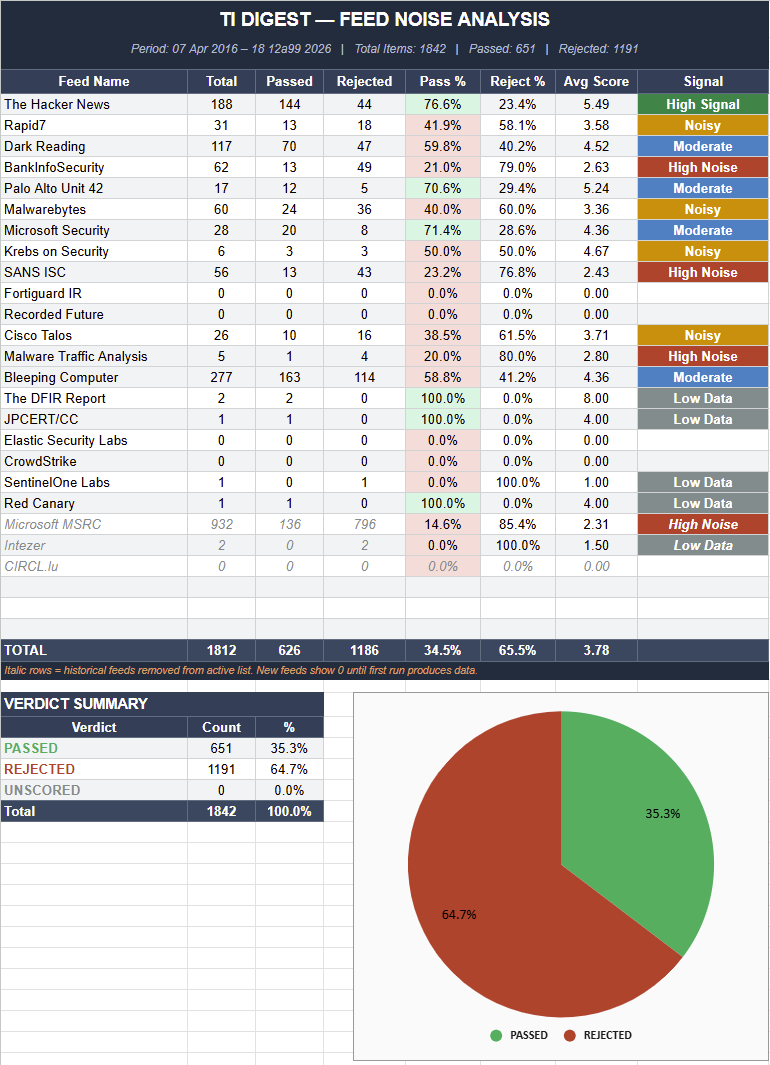
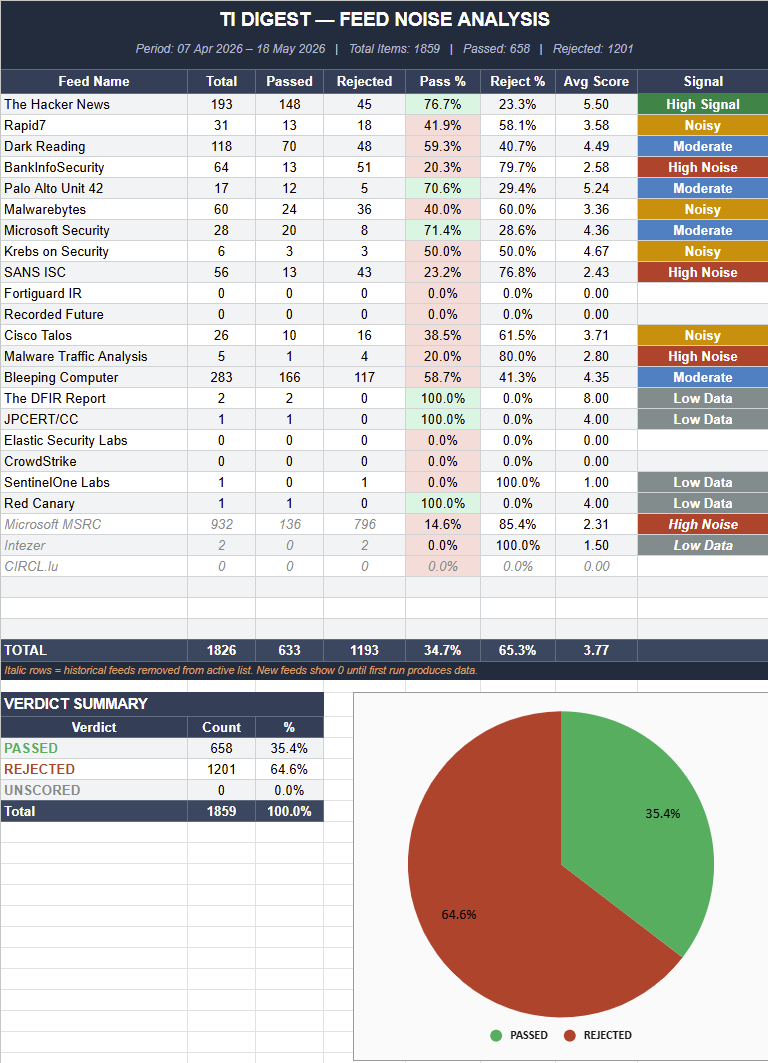
Update README with sample output screenshots and other information

diff --git a/README.md b/README.md
@@ -1,12 +1,125 @@
 # Threat Intel Digest
 
-An automated, AI-powered threat intelligence pipeline that runs twice daily on a self-hosted n8n instance. It ingests 21 security RSS feeds, triages every item with Claude (Anthropic), and delivers a scored, summarised digest to Discord and Gmail — filtered to what is actually relevant for your environment.
+A self-hosted threat intelligence pipeline that ingests 20+ security RSS feeds twice daily, runs every item through a Claude AI triage engine calibrated to your organisation's stack and region, and delivers a focused digest of only what is actually relevant - so you get the threats that matter, not an overwhelming wall of raw feed noise.
+
+Built on n8n (self-hosted, Docker), AWS Lightsail, and the Anthropic Claude API. Running costs under $12/month.
+
+---
+
+## What Makes This Different
+
+Most open threat intel pipelines stop at ingestion - a handful of RSS feeds passed into a summary prompt and pushed to a channel. This one is built to actually be useful day-to-day:
+
+- **20+ feeds** - coverage spans threat intel, DFIR, vendor research, ICS/OT, and national CERTs. High-signal, low-volume sources like The DFIR Report and Malware Traffic Analysis sit alongside high-volume feeds like Bleeping Computer and The Hacker News.
+- **Relevance filtering, not just summarisation** - every item is scored against your organisation, analyst stack, and monitored regions before a summary is written. Noise that doesn't apply to you never reaches your inbox.
+- **Two-stage design keeps costs low** - triage runs on titles and snippets only; the summarise call only fires on items that pass the threshold. You get broad coverage without paying to summarise everything.
+- **Fallback fetch for bot-blocked feeds** - feeds that reject default crawlers (BankInfoSecurity, Fortiguard) are retried with a browser User-Agent so they don't silently drop out.
+- **Built for calibration, not just set-and-forget** - the audit log records every verdict (`PASSED` / `REJECTED` / `UNSCORED`) with the score and reason. After two weeks you can see exactly where the threshold is too tight or too loose and adjust the prompt accordingly.
+- **Everything here is based on real data** - the scoring rubric, auto-elevation rules, and threshold have been tuned against actual pipeline runs. The sample outputs are real digest executions, not mock data.
+
+---
+
+## Features
+
+- **Dual-stage Claude pipeline** - triage scores every item first (cost-efficient); summarisation runs only on items that pass the threshold, keeping token usage low
+- **21 RSS feeds** across threat intel, DFIR, vendor research, ICS/OT, and national CERTs
+- **Relevance scoring (0-10)** - configurable for your stack and region
+- **Auto-elevation and auto-downgrade rules** in the triage prompt to catch edge cases (CISA KEV additions, nation-state campaigns against CNI, infostealer IOC drops, PhaaS infrastructure)
+- **Two-layer fallback fetch** - n8n RSS node first, HTTP fallback with browser `User-Agent` second (handles bot-blocked feeds like BankInfoSecurity and Fortiguard)
+- **Cross-execution deduplication** via n8n SQLite - items seen in previous runs are suppressed
+- **12-hour pubDate filter** per run, with pass-through for undated items to avoid silent feed drops
+- **Audit log** (Google Sheets) recording every item: `PASSED`, `REJECTED`, or `UNSCORED` - used for triage threshold calibration
+- **Error notification branch** - failed feeds alert to both Discord and Gmail with feed name, URL, HTTP status, and error detail
+- **Discord chunking** - output split at item boundaries, max 1,950 chars per message, 2s delay between webhook calls to prevent 429s and preserve order
+
+---
+
+## Estimated Running Cost
+
+| Component | Cost |
+|---|---|
+| Claude API (Haiku) | under $5/month at twice-daily cadence with 21 feeds |
+| AWS Lightsail | $7/month (1GB RAM, 2 vCPUs) |
+
+> **Note:** The Claude API cost above reflects this specific setup. Your actual cost will vary depending on how many feeds you configure and how much content passes the AI filtering stage — more feeds or a lower triage threshold means more items reaching the summarise call, which increases token usage.
+
+---
+
+## Sample Output
+
+**Email Digest**
+![Email Digest](samples/email_digest.png)
+
+**Audit Log - Feed Noise Analysis**
+![Feed Noise Analysis](samples/gsheet_feed_noise_analysis_chart.png)
+
+**Audit Log - Triage Data**
+![Triage Audit](samples/gsheet_triage_audit.png)
+
+For full output samples including error notifications, see the [samples/](./samples/) folder.
+
+---
+
+## Tech Stack
+
+| Component | Technology |
+|---|---|
+| Orchestration | [n8n](https://n8n.io/) (self-hosted, Docker) |
+| Hosting | AWS Lightsail - Ubuntu 24.04 LTS |
+| AI / Triage | Anthropic Claude API (`claude-haiku-4-5-20251001`) |
+| Notifications | Discord Webhook, Gmail (OAuth2) |
+| Audit Log | Google Sheets (OAuth2) |
+| Language | JavaScript (n8n Code nodes) |
+| Deduplication | n8n SQLite (built-in, cross-execution) |
+
+---
+
+## Prerequisites
+
+- AWS Lightsail instance (or any Linux VPS) - running on Ubuntu 24.04 LTS, 1GB RAM
+- n8n (self-hosted) - running on v2.14.2
+- Anthropic API key ([console.anthropic.com](https://console.anthropic.com)) - **set a monthly spend limit in Console > Settings > Limits before activating** to cap exposure if the key is ever compromised
+- Discord server with a webhook URL
+- Gmail account with OAuth2 configured in Google Cloud Console
+- Google Sheets (for the audit log)
+
+See [SETUP.md](./SETUP.md) for step-by-step configuration.
+
+---
+
+## Pipeline Stages
+
+### Stage 1 - Triage
+
+- Input: `title` + `contentSnippet` only (compact, cost-efficient)
+- Model: `claude-haiku-4-5-20251001`, max_tokens: 2000
+- Output: JSON array - `{ id, score, category, reason }`
+- Threshold: score >= 4 passes; score < 4 is rejected
+
+**Scoring rubric (0-10):**
+
+| Score | Criteria |
+|---|---|
+| 10 | Direct mention of your organisation or core platforms. Actively exploited zero-day in the exact analyst stack. |
+| 8-9 | Nation-state campaigns against CNI in your target region. Ransomware hitting CNI. Vulnerabilities in your sector's critical systems and operational platforms. Supply chain compromise of security or IT tooling. PAM/privileged access compromise. |
+| 6-7 | Windows/AD/Azure tradecraft (Kerberoasting, DCSync, ADCS, OAuth abuse, AiTM, BYOVD). New ransomware TTPs. AI/LLM attacks (prompt injection, MCP exploits). Container/K8s escapes. Infostealer campaigns with IOCs. PhaaS infrastructure. SIEM/XDR evasion. |
+| 4-5 | DFIR and detection engineering (Sigma, KQL, YARA, Sysmon, Velociraptor). MITRE ATT&CK research. Linux/macOS enterprise attacks. CVEs with RCE/SSRF/auth bypass primitives, no confirmed exploitation. |
+| 2-3 | Generic vulnerability disclosures. Security industry news. Tangential research. |
+| 0-1 | Vendor marketing, conference announcements, consumer advice, off-topic content. |
+
+### Stage 2 - Summarise
+
+- Input: threshold-passing items only
+- Model: `claude-haiku-4-5-20251001`, max_tokens: 10000
+- Per-item output: Title, Source, Published, Category, Relevance Score, Summary (2 sentences), Suggested Action, Read More link
+- Sorted by relevance score descending
+- `triageScore` used verbatim - model is instructed not to adjust it
 
 ---
 
 ## How It Works
 
-Two Claude API calls per run — triage first, summarise only what passes.
+Two Claude API calls per run - triage first, summarise only what passes.
 
 ```mermaid
 flowchart TD
@@ -60,66 +173,6 @@ flowchart TD
 
 ---
 
-## Features
-
-- **Dual-stage Claude pipeline** — triage scores every item first (cost-efficient); summarisation runs only on items that pass the threshold, keeping token usage low
-- **21 RSS feeds** across threat intel, DFIR, vendor research, ICS/OT, and national CERTs
-- **Relevance scoring (0-10)** — configurable for your stack and region
-- **Auto-elevation and auto-downgrade rules** in the triage prompt to catch edge cases (CISA KEV additions, nation-state campaigns against CNI, infostealer IOC drops, PhaaS infrastructure)
-- **Two-layer fallback fetch** — n8n RSS node first, HTTP fallback with browser `User-Agent` second (handles bot-blocked feeds like BankInfoSecurity and Fortiguard)
-- **Cross-execution deduplication** via n8n SQLite — items seen in previous runs are suppressed
-- **12-hour pubDate filter** per run, with pass-through for undated items to avoid silent feed drops
-- **Audit log** (Google Sheets) recording every item: `PASSED`, `REJECTED`, or `UNSCORED` — used for triage threshold calibration
-- **Error notification branch** — failed feeds alert to both Discord and Gmail with feed name, URL, HTTP status, and error detail
-- **Discord chunking** — output split at item boundaries, max 1,950 chars per message, 2s delay between webhook calls to prevent 429s and preserve order
-- **All credentials and IDs sanitised** in the published workflow export
-
----
-
-## Tech Stack
-
-| Component | Technology |
-|---|---|
-| Orchestration | [n8n](https://n8n.io/) (self-hosted, Docker) |
-| Hosting | AWS Lightsail — Ubuntu 24.04 LTS |
-| AI / Triage | Anthropic Claude API (`claude-haiku-4-5-20251001`) |
-| Notifications | Discord Webhook, Gmail (OAuth2) |
-| Audit Log | Google Sheets (OAuth2) |
-| Language | JavaScript (n8n Code nodes) |
-| Deduplication | n8n SQLite (built-in, cross-execution) |
-
----
-
-## Pipeline Stages
-
-### Stage 1 — Triage
-
-- Input: `title` + `contentSnippet` only (compact, cost-efficient)
-- Model: `claude-haiku-4-5-20251001`, max_tokens: 2000
-- Output: JSON array — `{ id, score, category, reason }`
-- Threshold: score >= 4 passes; score < 4 is rejected
-
-**Scoring rubric (0-10):**
-
-| Score | Criteria |
-|---|---|
-| 10 | Direct mention of your organisation or core platforms. Actively exploited zero-day in the exact analyst stack. |
-| 8-9 | Nation-state campaigns against CNI in your target region. Ransomware hitting CNI. ICS/SCADA/PLC vulnerabilities. Supply chain compromise of security or IT tooling. PAM/privileged access compromise. |
-| 6-7 | Windows/AD/Azure tradecraft (Kerberoasting, DCSync, ADCS, OAuth abuse, AiTM, BYOVD). New ransomware TTPs. AI/LLM attacks (prompt injection, MCP exploits). Container/K8s escapes. Infostealer campaigns with IOCs. PhaaS infrastructure. SIEM/XDR evasion. |
-| 4-5 | DFIR and detection engineering (Sigma, KQL, YARA, Sysmon, Velociraptor). MITRE ATT&CK research. Linux/macOS enterprise attacks. CVEs with RCE/SSRF/auth bypass primitives, no confirmed exploitation. |
-| 2-3 | Generic vulnerability disclosures. Security industry news. Tangential research. |
-| 0-1 | Vendor marketing, conference announcements, consumer advice, off-topic content. |
-
-### Stage 2 — Summarise
-
-- Input: threshold-passing items only
-- Model: `claude-haiku-4-5-20251001`, max_tokens: 10000
-- Per-item output: Title, Source, Published, Category, Relevance Score, Summary (2 sentences), Suggested Action, Read More link
-- Sorted by relevance score descending
-- `triageScore` used verbatim — model is instructed not to adjust it
-
----
-
 ## RSS Feeds (21)
 
 | Source | Type |
@@ -156,35 +209,12 @@ Threat_Intel_Digest/
 ├── SETUP.md                           # Deployment and configuration guide
 ├── FEEDS.md                           # Feed list with notes
 ├── samples/                           # Sample output screenshots
-│   ├── README.md                      # Rendered sample gallery
 │   ├── discord_digest.png
-│   ├── discord_crawl_failure.png
-│   ├── email_digest.png
-│   ├── email_crawl_failure.png
 │   ├── gsheet_triage_audit.png
 │   └── gsheet_feed_noise_analysis_chart.png
 └── workflow/
     └── Threat_Intel_Digest_Published_v1.0.json   # n8n workflow export (sanitised)
 ```
-
----
-
-## Prerequisites
-
-- n8n (self-hosted) — tested on v2.14.2
-- Anthropic API key ([console.anthropic.com](https://console.anthropic.com)) — **set a monthly spend limit in Console > Settings > Limits before activating** to cap exposure if the key is ever compromised
-- Discord server with a webhook URL
-- Gmail account with OAuth2 configured in Google Cloud Console
-- Google Sheets (for the audit log)
-
-See [SETUP.md](./SETUP.md) for step-by-step configuration.
-
----
-
-## Estimated Running Cost
-
-- Claude API (Haiku): under $5/month at twice-daily cadence with 21 feeds
-- AWS Lightsail: $7/month (1GB RAM, 2 vCPUs)
 
 ---
 

diff --git a/SETUP.md b/SETUP.md
@@ -9,7 +9,7 @@ Step-by-step deployment and configuration for the Threat Intel Digest pipeline.
 ### AWS Lightsail (recommended)
 
 - Instance: Ubuntu 24.04 LTS, AWS region of your choice
-- Plan: $7/month — 1GB RAM, 2 vCPUs, 40GB SSD
+- Plan: $7/month - 1GB RAM, 2 vCPUs, 40GB SSD
 - Add a static IP and attach it to the instance
 - Add 2GB swap to prevent OOM during large RSS fetch runs:
 
@@ -47,7 +47,7 @@ docker run -d --name n8n --restart unless-stopped \
   n8nio/n8n
 ```
 
-**Log rotation** — add to `/etc/docker/daemon.json` before starting the container:
+**Log rotation** - add to `/etc/docker/daemon.json` before starting the container:
 
 ```json
 {
@@ -68,7 +68,7 @@ Create these four credentials in n8n before importing the workflow.
 ### Claude API Key
 
 - Type: **Header Auth**
-- Name: `Claude API Key` (must match this exactly — the workflow references it by name)
+- Name: `Claude API Key` (must match this exactly - the workflow references it by name)
 - Header Name: `x-api-key`
 - Header Value: your Anthropic API key from [console.anthropic.com](https://console.anthropic.com)
 
@@ -80,7 +80,7 @@ Create these four credentials in n8n before importing the workflow.
 1. Go to [Google Cloud Console](https://console.cloud.google.com)
 2. Create a project, enable the Gmail API
 3. OAuth consent screen: External, add your email as a test user
-4. **Publish the app to production** — on the OAuth consent screen page click **Publish App** and confirm. Apps left in test mode issue refresh tokens that expire after 7 days, which will break the workflow silently. Publishing removes that limit. No Google review is required for personal use since you are only authorising your own account.
+4. **Publish the app to production** - on the OAuth consent screen page click **Publish App** and confirm. Apps left in test mode issue refresh tokens that expire after 7 days, which will break the workflow silently. Publishing removes that limit. No Google review is required for personal use since you are only authorising your own account.
 5. Create OAuth 2.0 credentials (Web application)
 6. Add redirect URI: `http://localhost:5678/rest/oauth2-credential/callback`
 7. In n8n: create a **Gmail OAuth2 API** credential, paste Client ID and Secret, then click Connect
@@ -91,7 +91,7 @@ Same Google Cloud project. Enable the Google Sheets API. Create a second OAuth2 
 
 ### Discord Webhook
 
-In your Discord server: Server Settings > Integrations > Webhooks > New Webhook. Copy the webhook URL — you will paste it into the workflow after import (see step 5 below).
+In your Discord server: Server Settings > Integrations > Webhooks > New Webhook. Copy the webhook URL - you will paste it into the workflow after import (see step 5 below).
 
 ---
 
@@ -131,15 +131,15 @@ These values are sanitised in the export and must be updated manually after impo
 
 Open `Build Triage Payload (CJS)`. The system prompt contains placeholder brackets for:
 
-- `[INSERT YOUR COMPANY INFO]` — brief description of your organisation and sector
-- `[INSERT YOUR ANALYST ENVIRONMENT]` — OS, AD, cloud platform, EDR/XDR, SIEM
-- `[INSERT YOUR MONITORED REGIONS]` — e.g. APAC, EU, US, CN
-- `[INSERT YOUR COMPANY NAME]` and `[INSERT YOUR PRODUCT/PLATFORM NAME]` — auto-elevates to score 10
-- `[INSERT YOUR MONITORED VENDOR STACK]` — e.g. Fortinet, Ivanti, Palo Alto, VMware
-- `[INSERT YOUR RELEVANT SECTORS]` — e.g. energy, utilities, ports, manufacturing, banking
-- `[INSERT YOUR SIEM/XDR/SOAR PLATFORMS]` — e.g. Microsoft Sentinel, Defender XDR
-- `[INSERT YOUR CLOUD/PRODUCTIVITY STACK]` — e.g. M365, Azure, Entra ID
-- `[INSERT YOUR CLOUD PLATFORM]` — e.g. Azure, AWS, GoogleCloud
+- `[INSERT YOUR COMPANY INFO]` - brief description of your organisation and sector
+- `[INSERT YOUR ANALYST ENVIRONMENT]` - OS, AD, cloud platform, EDR/XDR, SIEM
+- `[INSERT YOUR MONITORED REGIONS]` - e.g. APAC, EU, US, CN
+- `[INSERT YOUR COMPANY NAME]` and `[INSERT YOUR PRODUCT/PLATFORM NAME]` - auto-elevates to score 10
+- `[INSERT YOUR MONITORED VENDOR STACK]` - e.g. Fortinet, Ivanti, Palo Alto, VMware
+- `[INSERT YOUR RELEVANT SECTORS]` - e.g. energy, utilities, ports, manufacturing, banking
+- `[INSERT YOUR SIEM/XDR/SOAR PLATFORMS]` - e.g. Microsoft Sentinel, Defender XDR
+- `[INSERT YOUR CLOUD/PRODUCTIVITY STACK]` - e.g. M365, Azure, Entra ID
+- `[INSERT YOUR CLOUD PLATFORM]` - e.g. Azure, AWS, GoogleCloud
 
 The more precisely these match your actual stack and region, the more accurate the triage scores will be.
 
@@ -173,13 +173,13 @@ To test immediately without waiting for the schedule: click the **Execute Workfl
 
 | Issue | Cause | Workaround |
 |---|---|---|
-| IF node boolean condition fails | n8n v2.14.2 bug | Use String `is not empty` check — already applied in this workflow |
-| HTTP Request rejects expressions in JSON body | n8n re-parses JSON body mode | Raw mode with pre-stringified payload from Code node — already applied |
-| Discord messages out of order or 429 errors | Simultaneous webhook calls | SplitInBatches (batch: 1) + Wait 2s — already configured |
+| IF node boolean condition fails | n8n v2.14.2 bug | Use String `is not empty` check - already applied in this workflow |
+| HTTP Request rejects expressions in JSON body | n8n re-parses JSON body mode | Raw mode with pre-stringified payload from Code node - already applied |
+| Discord messages out of order or 429 errors | Simultaneous webhook calls | SplitInBatches (batch: 1) + Wait 2s - already configured |
 | All items blocked on repeated test runs | Dedup SQLite has seen all links | Temporarily bypass the `Deduplicate by Link` node during testing |
 | n8n instability during large RSS runs | CPU burst exhaustion on 1GB RAM | 2s Wait between feeds + 2GB swap |
 | Some feeds return zero items silently | n8n RSS node swallows errors | `Unpack Feed Fallback (CJS)` surfaces these before the IF check |
-| Bot-blocked feeds (BankInfoSecurity, Fortiguard) | Default User-Agent rejected | HTTP fallback with browser User-Agent — already configured |
+| Bot-blocked feeds (BankInfoSecurity, Fortiguard) | Default User-Agent rejected | HTTP fallback with browser User-Agent - already configured |
 | Claude Triage returns JSON wrapped in markdown fences | Haiku occasional format non-compliance | `Decode Claude Response (CJS)` strips fences before `JSON.parse` |
 
 ---

diff --git a/samples/README.md b/samples/README.md
@@ -1,10 +1,10 @@
 # Sample Output
 
-Real output from a live pipeline run. All screenshots are from actual digest executions — no mock data.
+Real output from a live pipeline run. All screenshots are from actual digest executions - no mock data.
 
 ---
 
-## Digest — Discord
+## Digest - Discord
 
 Twice-daily digest delivered to a Discord channel. Items sorted by relevance score descending, each with source, category, AI-generated summary, and suggested action.
 
@@ -12,7 +12,7 @@ Twice-daily digest delivered to a Discord channel. Items sorted by relevance sco
 
 ---
 
-## Digest — Email (Gmail)
+## Digest - Email (Gmail)
 
 Same digest delivered as an HTML email via Gmail OAuth2.
 
@@ -22,7 +22,7 @@ Same digest delivered as an HTML email via Gmail OAuth2.
 
 ## Error Notifications
 
-When a feed fails to fetch (connection timeout, bot block, HTTP error), the error notification branch fires immediately — separate from the digest run. Alerts go to both Discord and Gmail with feed name, URL, status code, and error detail.
+When a feed fails to fetch (connection timeout, bot block, HTTP error), the error notification branch fires immediately - separate from the digest run. Alerts go to both Discord and Gmail with feed name, URL, status code, and error detail.
 
 **Discord:**
 
@@ -34,7 +34,7 @@ When a feed fails to fetch (connection timeout, bot block, HTTP error), the erro
 
 ---
 
-## Audit Log — Triage Audit Raw Data
+## Audit Log - Triage Audit Raw Data
 
 Every item processed by the pipeline is logged to Google Sheets with verdict (`PASSED` / `REJECTED`), triage score, category, reason, feed name, and link. This raw audit data is used for threshold calibration and feed quality analysis.
 
@@ -42,8 +42,8 @@ Every item processed by the pipeline is logged to Google Sheets with verdict (`P
 
 ---
 
-## Audit Log — Feed Noise Analysis
+## Audit Log - Feed Noise Analysis
 
-Summary chart built on top of the raw audit data. Shows pass rate, reject rate, and average score per feed — used to identify high-noise feeds and calibrate the triage threshold over time.
+Summary chart built on top of the raw audit data. Shows pass rate, reject rate, and average score per feed - used to identify high-noise feeds and calibrate the triage threshold over time.
 
 ![Feed Noise Analysis](gsheet_feed_noise_analysis_chart.png)

diff --git a/FEEDS.md b/FEEDS.md
@@ -11,13 +11,13 @@
 | 1 | The Hacker News | `https://feeds.feedburner.com/TheHackersNews` | General | Reliable, high volume |
 | 2 | Rapid7 Blog | `https://blog.rapid7.com/rss` | Vulnerability research | |
 | 3 | Dark Reading | `https://www.darkreading.com/rss.xml` | Industry news | |
-| 4 | BankInfoSecurity | `https://www.bankinfosecurity.com/rssFeeds.php?type=main` | Financial / CNI | **Bot-blocked** — requires HTTP fallback with browser User-Agent |
+| 4 | BankInfoSecurity | `https://www.bankinfosecurity.com/rssFeeds.php?type=main` | Financial / CNI | **Bot-blocked** - requires HTTP fallback with browser User-Agent |
 | 5 | Palo Alto Unit 42 | `https://unit42.paloaltonetworks.com/feed` | Vendor threat research | |
 | 6 | Malwarebytes Blog | `https://blog.malwarebytes.com/feed/` | Malware analysis | |
 | 7 | Microsoft Security Blog | `https://www.microsoft.com/en-us/security/blog/feed/` | Microsoft stack | |
 | 8 | Krebs on Security | `https://krebsonsecurity.com/feed` | Investigative | |
 | 9 | SANS ISC | `https://isc.sans.edu/rssfeed.xml` | Daily indicators | Atom format |
-| 10 | Fortiguard IR | `https://www.fortiguard.com/rss/ir.xml` | Vendor IR | **Bot-blocked** — requires HTTP fallback with browser User-Agent |
+| 10 | Fortiguard IR | `https://www.fortiguard.com/rss/ir.xml` | Vendor IR | **Bot-blocked** - requires HTTP fallback with browser User-Agent |
 | 11 | Recorded Future | `https://www.recordedfuture.com/feed` | Threat intelligence | |
 | 12 | Cisco Talos | `https://feeds.feedburner.com/feedburner/Talos` | Vendor threat research | FeedBurner relay |
 | 13 | Malware Traffic Analysis | `https://www.malware-traffic-analysis.net/blog-entries.rss` | PCAP / traffic analysis | Infrequent posts, high signal |
@@ -39,7 +39,7 @@
    ```json
    { "name": "Source Name", "url": "https://example.com/feed.rss" }
    ```
-3. Update `totalFeeds` — the `Clear Accumulator (CJS)` node reads the feeds array length automatically, so no manual update is needed
+3. Update `totalFeeds` - the `Clear Accumulator (CJS)` node reads the feeds array length automatically, so no manual update is needed
 4. Add a domain mapping to `resolveSource()` in `Filter pubDate 12h (CJS)`:
    ```javascript
    if (link.includes('example.com')) return 'Source Name';